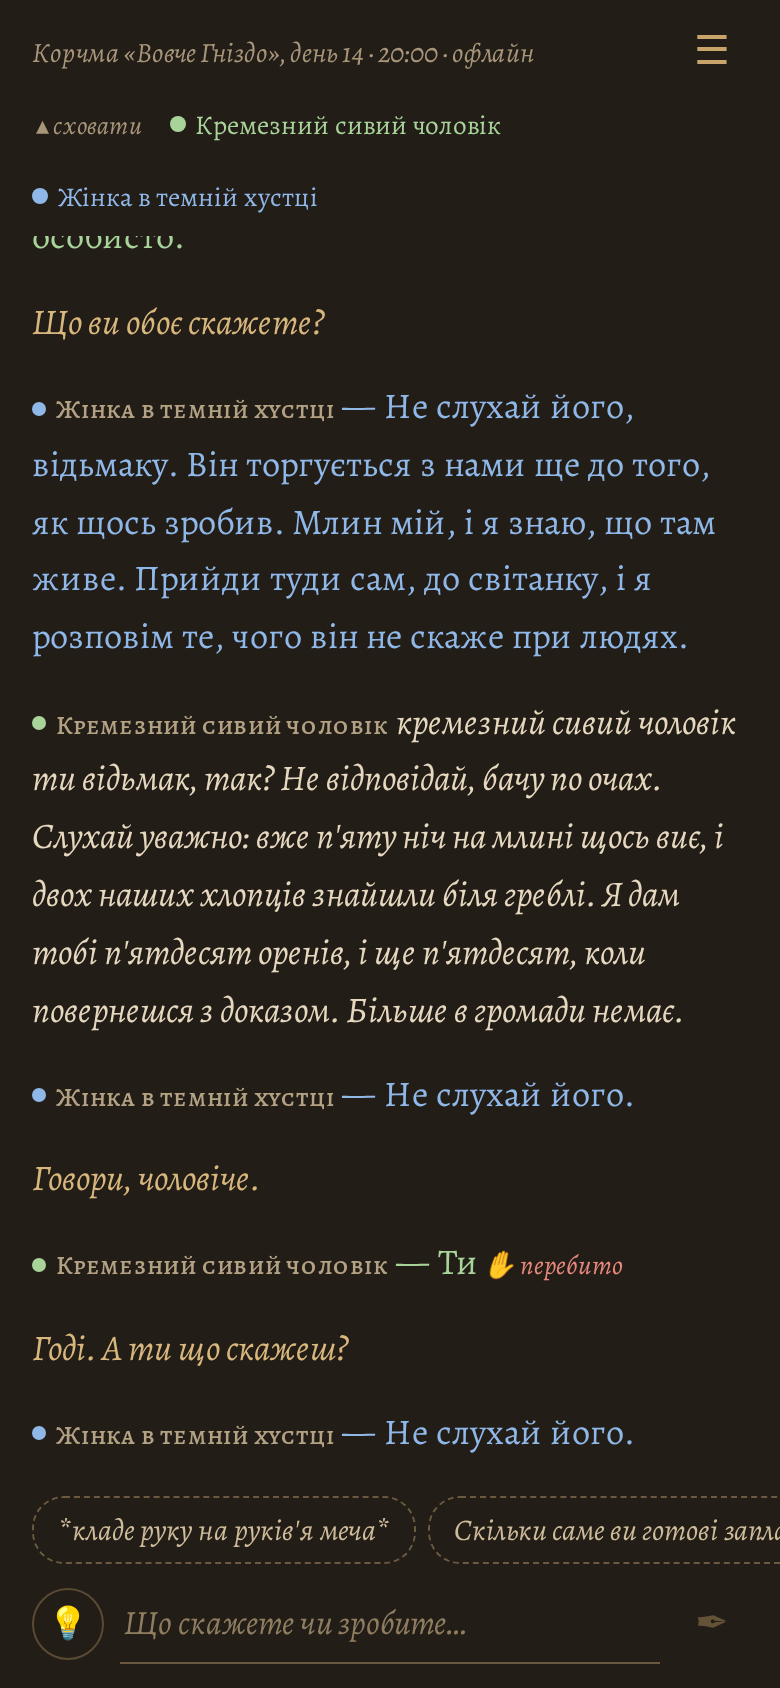
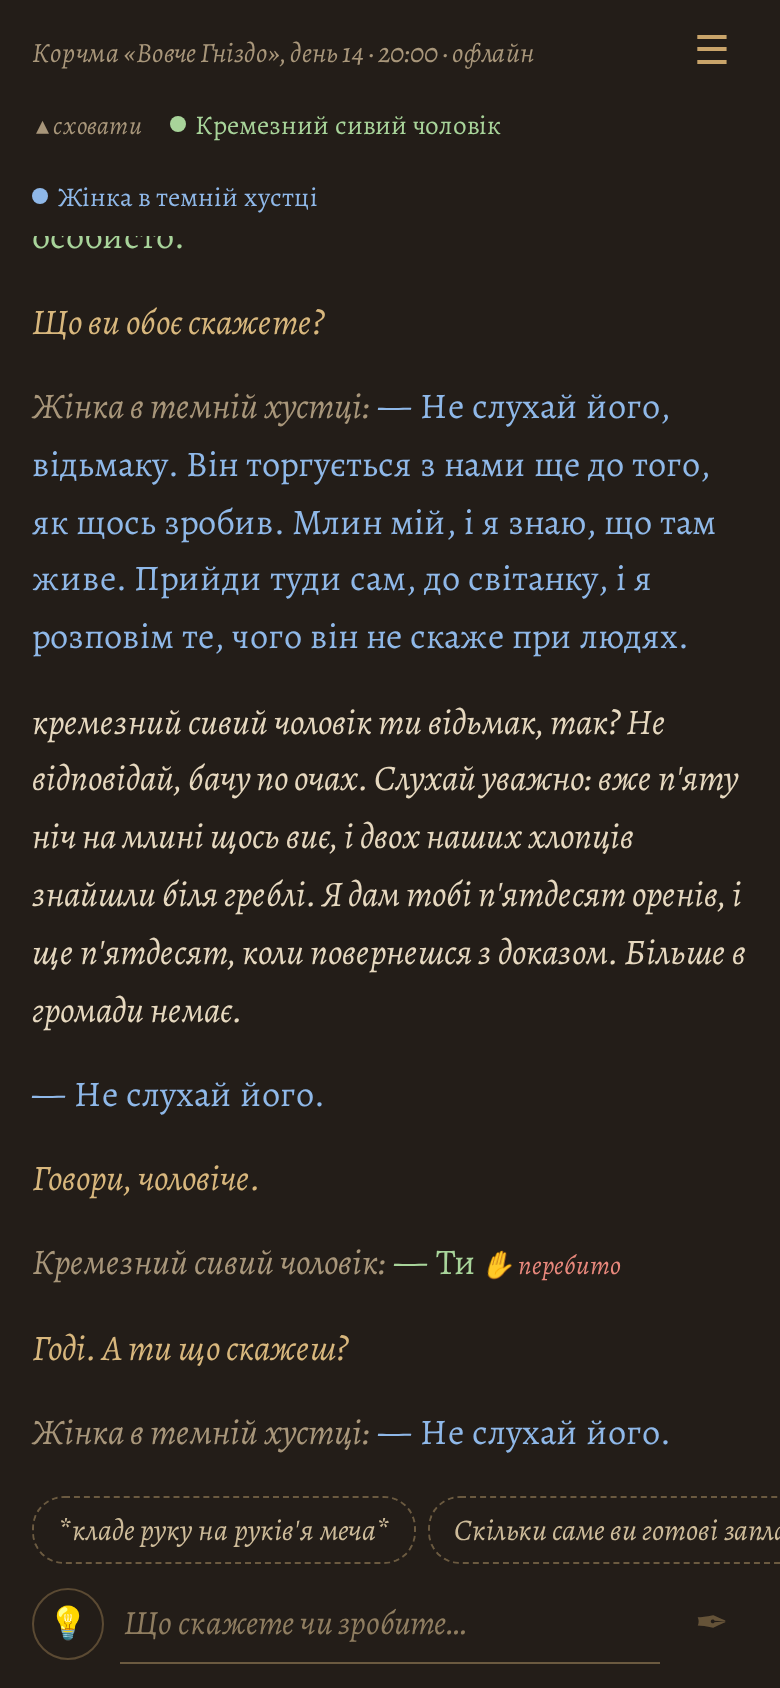
Book page review fixes: turn-scoped reload replay, pure-prose speaker tags
- A reload during a turn's slow lane skips only that turn's replayed feed
  events (by turn id), and only when the transcript really holds the turn
  (last player line == pending_turn); the error path no longer leaves a skip
  flag that swallows the next turn. The reloaded last turn's paragraphs are
  tracked under its turn id, so a late retract removes them.
- Mockup B ruling: no tag on gestures; a speech paragraph gets a quiet
  italic name only when the speaker changed from the previous speech
  paragraph and no beat of the line names them. Small caps font dropped.
- Narration paragraphs are focusable (line menu by keyboard); the feed is
  a log with aria-busy while words stream; no touch callout on any line.
- Tests: node tests for the replay and the tag rules; a pytest pinning that
  a cut-in keeps the interrupted turn's turn_done in the stream.

diff --git a/app/static/app.js b/app/static/app.js
@@ -16,7 +16,10 @@ let cast = {};            // tok -> {tok, label, ink, present}: who the player c
 let actions = [];         // optional line actions the server offers ("model_error", "cut")
 let speakingTok = null;   // whose words stream now (tints ✋)
 let sugg = { turn: null, items: [] };
-let skipReplay = false;   // a reload during the slow lane: the turn is already in the transcript
+// a reload during a turn's slow lane: that turn is already in the transcript, so its replayed feed
+// events are skipped (only events of that turn id), and its rendered paragraphs are tracked under
+// that id so a late retract still removes them
+let replay = null, lastTurnNodes = [];
 
 function el(tag, cls, text) {
   const e = document.createElement(tag);
@@ -72,10 +75,18 @@ function segments(text) {
   });
   return out;
 }
+// a speech paragraph names its speaker (subtly) only when the speaker changed from the previous
+// speech paragraph and no beat of the line names them; otherwise colour, dash and legend carry it
+function needsTag(p, segs) {
+  if (p._prevTok === p.dataset.tok) return false;
+  const label = String(p.dataset.label || "").toLowerCase();
+  return !segs.some((s) => s.beat && label && s.text.toLowerCase().includes(label));
+}
 function fillBody(p, text) {
   p._raw = text;
   const body = el("span", "body");
   const segs = segments(text);
+  if (p.dataset.line === "say" && needsTag(p, segs)) body.append(el("span", "who", p.dataset.label + ":"), document.createTextNode(" "));
   segs.forEach((s, i) => {
     if (i) body.appendChild(document.createTextNode(" "));
     if (!s.beat) { body.appendChild(el("span", "q", "— " + s.text)); return; }
@@ -87,17 +98,20 @@ function fillBody(p, text) {
   p._body = body;
   if (old) old.replaceWith(body); else p.appendChild(body);   // keeps an open ask box after it
 }
-function who(p, tok, label) {
+function who(p, tok, label) {   // no visible tag: gesture text names the actor itself
   p.dataset.tok = tok;
+  p.dataset.label = label || "";
   p.style.setProperty("--c", inkVar(tok));
-  const w = el("span", "who");
-  w.append(el("i", "dot"), el("span", "", label));
-  p.appendChild(w);
-  p.appendChild(document.createTextNode(" "));
+}
+function prevSpeaker() {   // the speaker of the last speech paragraph on the page so far
+  const ls = lines();
+  for (let i = ls.length - 1; i >= 0; i--) if (ls[i].dataset.line === "say") return ls[i].dataset.tok;
+  return null;
 }
 function sayBlock(tok, label, text, cut, event) {
   const p = el("p", "npc"); p.dataset.line = "say"; p.tabIndex = 0;
   who(p, tok, label);
+  p._prevTok = prevSpeaker();
   fillBody(p, text || "");
   if (cut) p.classList.add("cut");
   if (event != null) p.dataset.event = event;
@@ -109,7 +123,11 @@ function actBlock(tok, label, text) {
   p.appendChild(el("span", "act-text", text));
   return p;
 }
-function narrBlock(text, cls = "narr") { const p = el("p", cls, text); p.dataset.line = cls === "intro" ? "intro" : "narr"; return p; }
+function narrBlock(text, cls = "narr") {
+  const p = el("p", cls, text); p.dataset.line = cls === "intro" ? "intro" : "narr";
+  if (cls === "narr") p.tabIndex = 0;   // the line menu (model error) is reachable by keyboard
+  return p;
+}
 function meBlock(text) { const p = el("p", "me", text); p.dataset.line = "me"; return p; }
 function streaming(p) {
   for (const n of Array.from(feed.children)) if (n !== p && n.classList) n.classList.remove("streaming");
@@ -145,7 +163,7 @@ const ITEM_TEXT = {
   cut: "✂ Перебити тут (заднім числом)", ink: "🎨 Чорнило цього персонажа",
 };
 let sheetLine = null;
-function labelOf(p) { const w = p.querySelector(".who"); return w ? w.textContent.trim() : ""; }
+function labelOf(p) { return p.dataset.label || ""; }
 function openSheet(p) {
   const sheet = $("sheet");
   if (sheet.open) return;
@@ -414,6 +432,8 @@ function setBusy(on, ph) {
   document.body.dataset.phase = phase;
   feed.classList.toggle("busy", on);
   const talk = phase === "narrating" || phase === "speaking";
+  // screen readers wait while words stream in, then read the finished paragraphs once
+  feed.setAttribute("aria-busy", String(talk));
   $("btnInterrupt").hidden = !talk;
   $("btnInterrupt").style.setProperty("--c", phase === "speaking" && speakingTok ? inkVar(speakingTok) : "var(--pen)");
   $("btnIdea").hidden = on;
@@ -444,12 +464,17 @@ function render(state) {
   tag = state.live ? "" : " · офлайн";
   $("clock").textContent = state.clock + tag;
   actions = Array.isArray(state.actions) ? state.actions : [];
+  lastTurnNodes = [];   // the paragraphs since the last player paragraph (the last turn)
   for (const t of state.transcript) {
-    if (t.kind === "intro") add(narrBlock(t.text, "intro"), false);
-    else if (t.kind === "player") add(meBlock(t.text), false);
-    else if (t.kind === "narr") { if (t.text && t.text.trim()) add(narrBlock(t.text), false); }
-    else if (t.kind === "npc_act") add(actBlock(t.tok, t.label, t.text), false);
-    else add(sayBlock(t.tok, t.label, t.text, t.cut, t.event), false);
+    let n = null;
+    if (t.kind === "intro") n = narrBlock(t.text, "intro");
+    else if (t.kind === "player") { n = meBlock(t.text); lastTurnNodes = []; }
+    else if (t.kind === "narr") { if (t.text && t.text.trim()) n = narrBlock(t.text); }
+    else if (t.kind === "npc_act") n = actBlock(t.tok, t.label, t.text);
+    else n = sayBlock(t.tok, t.label, t.text, t.cut, t.event);
+    if (!n) continue;
+    add(n, false);
+    if (t.kind !== "intro") lastTurnNodes.push(n);
   }
   setPanel(state.panel);
   feed.scrollTop = feed.scrollHeight;
@@ -560,6 +585,27 @@ function showFinale(lines) {
   $("sugg").hidden = true;
 }
 
+function beginReplay(state) {
+  const players = (state.transcript || []).filter((t) => t.kind === "player");
+  // the transcript holds the running turn only once its fast part is done (not after an error)
+  const holds = state.running && state.phase === "idle" && players.length > 0 &&
+    players[players.length - 1].text === state.pending_turn;
+  replay = holds ? { turn: null } : null;
+}
+function dispatch(type, e) {
+  if (replay && FEED_EVENTS.has(type)) {
+    if (replay.turn == null && type === "turn_start") {
+      replay.turn = e.turn; curTurn = e.turn;
+      turnEls[e.turn] = lastTurnNodes.slice();
+      return;
+    }
+    if (replay.turn != null && e.turn === replay.turn) {
+      if (type === "turn_done") sugg.turn = e.turn;
+      return;
+    }
+  }
+  handlers[type](e);
+}
 function connect(after) {
   if (es) es.close();
   lastSeq = after;
@@ -569,12 +615,7 @@ function connect(after) {
       const e = JSON.parse(m.data);
       if (e.seq <= lastSeq) return;      // replay after a reconnect: already shown
       lastSeq = e.seq;
-      if (skipReplay && FEED_EVENTS.has(type)) {
-        if (type === "turn_start") curTurn = e.turn;
-        if (type === "turn_done") skipReplay = false;
-        return;
-      }
-      handlers[type](e);
+      dispatch(type, e);
     });
   }
 }
@@ -583,7 +624,7 @@ async function load() {
   const state = await (await fetch("/api/state")).json();
   render(state);
   turnEls = {}; cur = null;
-  skipReplay = Boolean(state.running && state.phase === "idle");
+  beginReplay(state);
   setBusy(state.phase !== "idle", state.phase);
   showError("");
   connect(state.resume_after);

diff --git a/app/tests/client_harness.js b/app/tests/client_harness.js
@@ -1,6 +1,7 @@
 // Runs app/static/app.js against a minimal DOM stub (used by test_app_client.py).
 //   node client_harness.js app.js '<events JSON>'            replay events, print the feed
-//   node client_harness.js app.js '{"state": …, "events": […], "eval": "<expr>"}'
+//   node client_harness.js app.js '{"state"|"load": …, "events": […], "eval": "<expr>"}'
+//     ("load": as a page reload does, events then pass the reload's replay filter)
 //     render a /api/state body first, then replay events; "eval" is evaluated in the app's
 //     scope and its value is printed as "value".
 "use strict";
@@ -30,11 +31,13 @@ ctx.EventSource.CLOSED = 2;
 vm.createContext(ctx);
 vm.runInContext(fs.readFileSync(process.argv[2], "utf8") +
   "\nthis.__h = handlers; this.__state = () => ({ busy }); this.__render = render;" +
+  "\nthis.__load = (st) => { render(st); turnEls = {}; cur = null; beginReplay(st); }; this.__dispatch = dispatch;" +
   "\nthis.__eval = (s) => eval(s);", ctx);
 let job = JSON.parse(process.argv[3]);
 if (Array.isArray(job)) job = { events: job };
 if (job.state) ctx.__render(job.state);
-for (const e of job.events || []) ctx.__h[e.type](e);
+if (job.load) ctx.__load(job.load);   // as after a reload: events go through the replay filter
+for (const e of job.events || []) (job.load ? ctx.__dispatch : (t, ev) => ctx.__h[t](ev))(e.type, e);
 const feed = ids.feed;
 const text = (n) => (n.textContent || "") + (n.children || []).map(text).join("");
 console.log(JSON.stringify({ feed: feed.children.map((n) => ({ cls: n.className, line: n.dataset.line,

diff --git a/app/static/style.css b/app/static/style.css
@@ -16,7 +16,6 @@
   --danger: #e8887c;
   --ink-none: var(--ink); /* a character whose ink has not arrived yet */
   --serif: "Alegreya", "Noto Serif", "DejaVu Serif", "Liberation Serif", Georgia, serif;
-  --sc: "Alegreya SC", "Alegreya", "Noto Serif", Georgia, serif;
   --mono: ui-monospace, "DejaVu Sans Mono", monospace;
   --col: 38rem;          /* the text column: about 32-36 em of the body font, under 40 em */
   --tap: 44px;
@@ -64,11 +63,11 @@ button { cursor: pointer; background: none; border: 0; padding: 0; }
 .page > :first-child { margin-top: 6px; }
 .intro, .narr { color: var(--ink); }
 .me { font-style: italic; color: var(--you); }
-.npc { -webkit-touch-callout: none; border-radius: 6px; }
+.npc { border-radius: 6px; }
+#feed [data-line] { -webkit-touch-callout: none; }   /* a long press opens the line menu, not the callout */
 .npc .q { color: var(--c); }
 .npc .beat { color: var(--tag); font-style: italic; }
-.who { font-family: var(--sc); font-size: 0.72em; letter-spacing: .03em; color: var(--tag); white-space: nowrap; }
-.who .dot { width: 7px; height: 7px; margin-right: 5px; vertical-align: 0.12em; }
+.who { font-style: italic; color: var(--muted); }   /* a quiet name, only where the speaker changes */
 .act { color: var(--ink); }
 .act .act-text { font-style: italic; }
 .cut::after { content: " ✋ перебито"; font-size: 0.75em; font-style: italic; color: var(--danger); white-space: nowrap; }

diff --git a/app/static/index.html b/app/static/index.html
@@ -8,7 +8,7 @@
 <title>Harness</title>
 <link rel="preconnect" href="https://fonts.googleapis.com">
 <link rel="preconnect" href="https://fonts.gstatic.com" crossorigin>
-<link rel="stylesheet" href="https://fonts.googleapis.com/css2?family=Alegreya:ital,wght@0,400;0,700;1,400&family=Alegreya+SC:wght@500&subset=cyrillic&display=swap">
+<link rel="stylesheet" href="https://fonts.googleapis.com/css2?family=Alegreya:ital,wght@0,400;0,700;1,400&subset=cyrillic&display=swap">
 <link rel="stylesheet" href="/static/style.css">
 </head>
 <body data-phase="loading">
@@ -23,7 +23,7 @@
     <button id="btnMenu" class="ic menu" type="button" aria-label="Меню" aria-haspopup="dialog">☰</button>
   </header>
 
-  <main id="feed" class="page" aria-live="polite"></main>
+  <main id="feed" class="page" role="log" aria-live="polite" aria-busy="false"></main>
 
   <div id="errbar" role="alert" hidden></div>
 

diff --git a/app/tests/test_app_client.py b/app/tests/test_app_client.py
@@ -144,3 +144,76 @@ def test_suggestions_of_the_current_turn_only_and_cleared_by_a_new_turn():
     evs2 = evs + [{"type": "turn_start", "turn": 2, "text": "Друга."},
                   {"type": "suggestions", "turn": 1, "items": ["Застаріле"]}]
     assert run({"events": evs2, "eval": "sugg.items"})["value"] == []
+
+
+@pytest.mark.skipif(NODE is None, reason="node is not installed")
+def test_speaker_named_only_where_the_speaker_changes_and_never_on_gestures():
+    """Mockup B, pure prose (lead's ruling): a quiet name only when the speaker changed from the
+    previous speech paragraph and no beat of the line names them; gestures carry no tag."""
+    t = "a1b2c3d4"
+    state = {"title": "t", "live": False, "clock": "x", "panel": PANEL, "transcript": [
+        {"kind": "npc", "tok": t, "label": "сивий чоловік", "text": "Сто п'ятдесят?"},
+        {"kind": "npc_act", "tok": t, "label": "сивий чоловік", "text": "Сивий чоловік кашляє."},
+        {"kind": "npc", "tok": t, "label": "сивий чоловік", "text": "Ну?"},
+        {"kind": "npc", "tok": "e5f6", "label": "жінка в хустці",
+         "text": "*жінка в хустці хитає головою* Ні."},
+        {"kind": "npc", "tok": t, "label": "сивий чоловік", "text": "*він хмикає* Гм."},
+    ]}
+    texts = [p["text"] for p in run({"state": state})["feed"]]
+    assert texts[0].startswith("сивий чоловік: — Сто")
+    assert texts[1] == "Сивий чоловік кашляє.", "no tag on a gesture"
+    assert texts[2] == "— Ну?", "same speaker as the previous speech: no tag"
+    assert "жінка в хустці:" not in texts[3], "a beat already names her"
+    assert texts[4].startswith("сивий чоловік: він хмикає."), "a beat that does not name him"
+
+
+def _reload_state(last_player, pending):
+    return {"title": "t", "live": False, "clock": "x", "panel": PANEL, "running": True,
+            "phase": "idle", "pending_turn": pending, "transcript": [
+                {"kind": "player", "text": "Перша."},
+                {"kind": "npc", "tok": "aa", "label": "він", "text": "Раз.", "event": 1},
+                {"kind": "player", "text": last_player},
+                {"kind": "npc", "tok": "aa", "label": "він", "text": "Два.", "event": 2},
+            ]}
+
+
+@pytest.mark.skipif(NODE is None, reason="node is not installed")
+def test_reload_in_the_slow_lane_skips_only_that_turn_and_a_retract_removes_it():
+    replayed = [
+        {"type": "turn_start", "turn": 2, "text": "Друга."},
+        {"type": "speaker", "turn": 2, "tok": "aa", "label": "він"},
+        {"type": "word", "turn": 2, "tok": "aa", "w": "Два."},
+        {"type": "turn_done", "turn": 2, "clock": "x", "panel": PANEL, "lines": [2], "cut_lines": []},
+    ]
+    got = run({"load": _reload_state("Друга.", "Друга."), "events": replayed})
+    assert [p["text"] for p in got["feed"]] == ["Перша.", "він: — Раз.", "Друга.", "— Два."], "no duplicate"
+    retracted = run({"load": _reload_state("Друга.", "Друга."), "events": replayed + [
+        {"type": "retract", "turn": 2, "text": "Друга.", "message": "збій"}]})
+    assert [p["text"] for p in retracted["feed"]] == ["Перша.", "він: — Раз."]
+    assert retracted["input"] == "Друга."
+    nxt = run({"load": _reload_state("Друга.", "Друга."), "events": replayed + [
+        {"type": "turn_start", "turn": 3, "text": "Третя."},
+        {"type": "speaker", "turn": 3, "tok": "aa", "label": "він"},
+        {"type": "word", "turn": 3, "tok": "aa", "w": "Три."}]})
+    assert [p["text"] for p in nxt["feed"]][-2:] == ["Третя.", "— Три."], "the next turn is shown"
+
+
+@pytest.mark.skipif(NODE is None, reason="node is not installed")
+def test_reload_after_an_error_does_not_swallow_the_next_turn():
+    """The error path: phase idle, thread still alive, no turn_done ever comes for that turn and
+    the transcript does not hold it. Nothing is skipped; the error drops the replayed turn, and
+    the next turn is shown."""
+    state = _reload_state("Перша-б.", "Друга.")
+    evs = [
+        {"type": "turn_start", "turn": 2, "text": "Друга."},
+        {"type": "speaker", "turn": 2, "tok": "aa", "label": "він"},
+        {"type": "word", "turn": 2, "tok": "aa", "w": "Ох"},
+        {"type": "error", "turn": 2, "text": "Друга.", "message": "збій"},
+        {"type": "turn_start", "turn": 3, "text": "Третя."},
+        {"type": "speaker", "turn": 3, "tok": "aa", "label": "він"},
+        {"type": "word", "turn": 3, "tok": "aa", "w": "Три."},
+        {"type": "turn_done", "turn": 3, "clock": "x", "panel": PANEL, "lines": [5], "cut_lines": []},
+    ]
+    got = run({"load": state, "events": evs})
+    texts = [p["text"] for p in got["feed"]]
+    assert texts == ["Перша.", "він: — Раз.", "Перша-б.", "— Два.", "Третя.", "— Три."], texts

diff --git a/app/tests/ui_check.py b/app/tests/ui_check.py
@@ -166,7 +166,7 @@ def main() -> None:
         assert ink_h.lower() in PALETTE, ink_h
         assert color(page, f"{hsel} .q") == rgb(ink_h), "speech is in the character's ink"
         assert color(page, "#btnInterrupt") == rgb(ink_h), "✋ is tinted with the speaker's ink"
-        assert page.text_content(f"{hsel} .who").strip(), "the speaker is named, not only coloured"
+        assert page.text_content(f"{hsel} .who").strip().rstrip(":"), "a new speaker is named once"
         shot(page, "03-npc-speaking")
         wait_idle(page)
         assert not page.is_visible("#btnInterrupt") and page.is_visible("#btnIdea"), "💡 when idle"
@@ -253,6 +253,11 @@ def main() -> None:
         assert page.locator(esel).count() >= 2, "the same speaker twice is two paragraphs"
         assert page.locator(".cut").count() == 0, "a skip is not an interrupt"
         assert color(page, f"{ACT} .act-text") != rgb(ink_h), "a gesture stays in the base ink"
+        # mockup B, pure prose: a quiet name only where the speaker changes; none on gestures
+        assert page.locator(f"{ACT} .who").count() == 0, "a gesture names its actor in its text"
+        assert page.locator(f"{esel} .who").count() == 1, "Ельза named on her first line only"
+        assert page.locator(esel).first.locator(".who").count() == 1
+        assert page.locator(f"{hsel} .who").count() == 1
         no_hscroll(page, "after the exchange")
         shot(page, "05b-exchange-with-gesture")
 

diff --git a/app/tests/test_app_dialogue.py b/app/tests/test_app_dialogue.py
@@ -316,3 +316,19 @@ def test_late_retract_of_a_cut_in_turn_names_that_turn():
     assert evs.index(starts[-1]) < evs.index(retract)
     assert all(e["turn"] == 2 for e in evs if e["type"] in ("turn_done", "speaker", "word"))
     assert [t["text"] for t in g.transcript if t["kind"] == "player"] == ["Друга."]
+
+
+def test_a_cut_in_keeps_the_interrupted_turns_turn_done_in_the_stream():
+    """Book UI review: start_turn used to clear the event list, so a client polling the stream
+    could miss turn 1's turn_done (and its cut marks) when the player cut in with turn 2."""
+    g = make(pace=0.02, floors=["horst", "elza", "horst", "player"])
+    g.start_turn("Перша.")
+    first_start = g.turn_start_seq
+    wait_phase(g, "speaking")
+    wait_event(g, "word")
+    g.start_turn("Друга.")
+    g.wait_idle(30)
+    done = [e for e in g.events_after(first_start) if e["type"] == "turn_done"]
+    assert [e["turn"] for e in done] == [1, 2]
+    assert done[0]["cut_lines"], "the interrupted line is marked for a client that polls late"
+    assert g.events_after(g.turn_start_seq)[0]["type"] == "turn_start"  # replay still starts there
